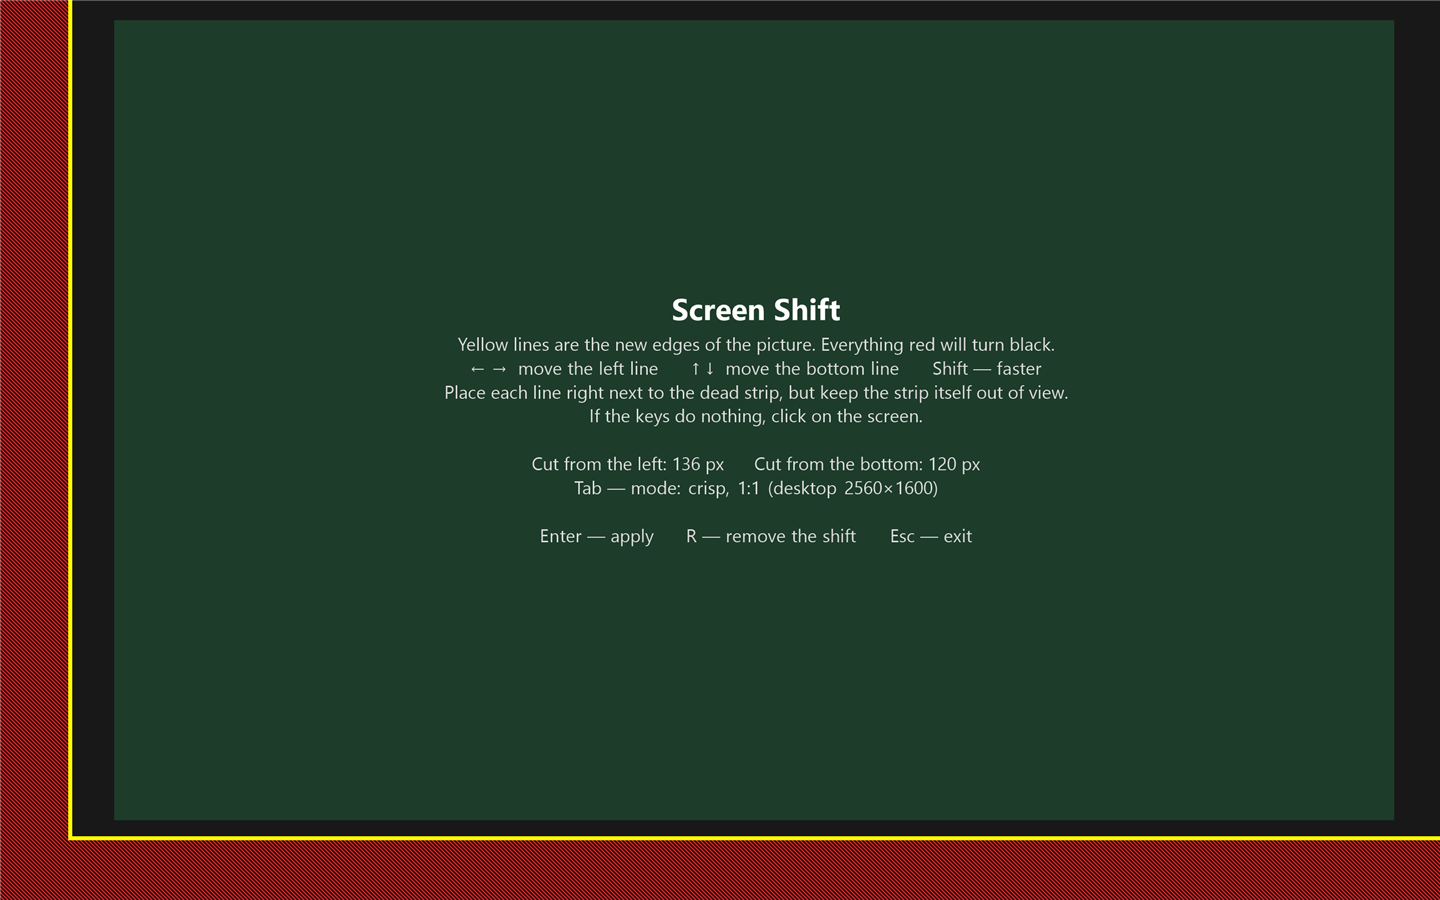
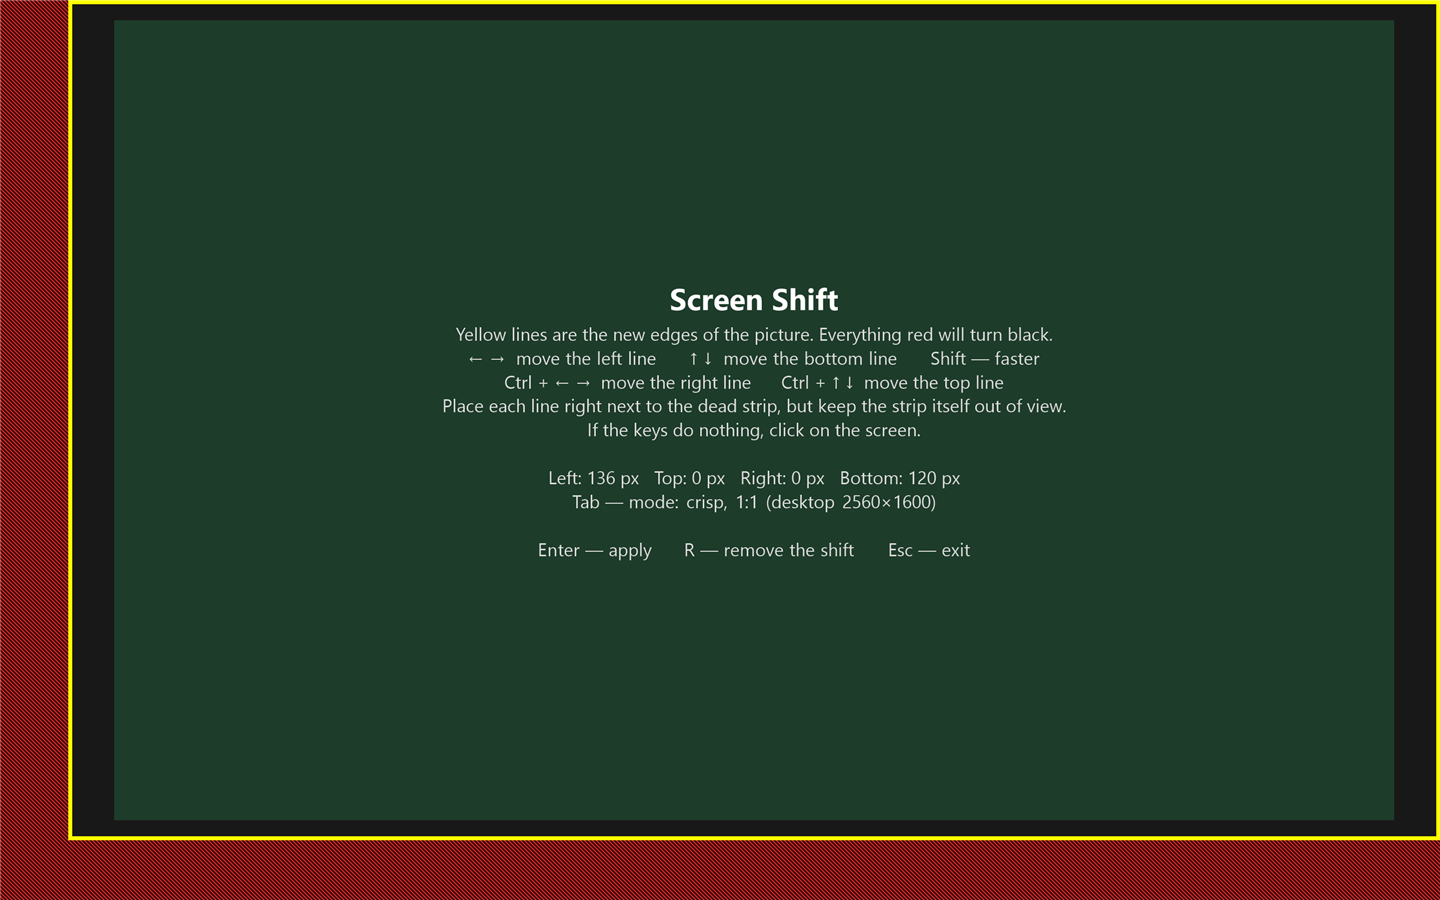
Four edges: tidy up after #1
- Drop the stray BOM from ScreenShift.cs.
- Drop the Alt 1 px step: with Ctrl it made Ctrl+Alt+arrow, which Intel
  drivers use to rotate the screen. Steps are 4 px and 20 px with Shift,
  as before; the test presses Ctrl+Shift instead.
- Calibration hints keep the 1.1 wording, plus one line for Ctrl.
- READMEs: the four-edge keys and settings format go into the existing
  sections, in English and Russian; the test command sits next to the
  build command; the appended section is gone.
- Calibration screenshots re-rendered with the new hints.

Changed region(s): [[0.3125, 0.3111, 0.75, 0.6222], [0.0625, 0.0, 1.0, 0.0311]]

diff --git a/ScreenShift.cs b/ScreenShift.cs
@@ -1,4 +1,4 @@
-// Required Notice: Copyright (c) 2026 Bluremind (https://github.com/Bluremind/ScreenShift)
+// Required Notice: Copyright (c) 2026 Bluremind (https://github.com/Bluremind/ScreenShift)
 // Free for personal use under the ScreenShift Personal Use License (see LICENSE). Any other use needs a paid license (COMMERCIAL.md).
 //
 // ScreenShift: moves the Windows picture off the dead strips of a damaged panel.
@@ -269,16 +269,16 @@ namespace ScreenShift
                 : string.Format(L.T("вся картинка, сжата до {0:0.#}%", "fill, scaled to {0:0.#}%"), 100.0 * region.Width / w);
             string body = L.Russian
                 ? "Жёлтые линии — новые края картинки. Всё красное станет чёрным.\n" +
-                  "← →: левая; ↑ ↓: нижняя; Ctrl + ← →: правая; Ctrl + ↑ ↓: верхняя\n" +
-                  "Шаг: 4 px; Shift: 20 px; Alt: 1 px\n" +
+                  "← →  двигать левую линию      ↑ ↓  двигать нижнюю      Shift — быстрее\n" +
+                  "Ctrl + ← →  двигать правую линию      Ctrl + ↑ ↓  двигать верхнюю\n" +
                   "Подведите каждую линию вплотную к чёрной полосе, но так, чтобы её ещё было видно.\n" +
                   "Если клавиши не действуют — щёлкните по экрану.\n\n" +
                   string.Format("Слева: {0} px   Сверху: {1} px   Справа: {2} px   Снизу: {3} px\n", cutLeft, cutTop, cutRight, cutBottom) +
                   "Tab — режим: " + mode + "\n\n" +
                   "Enter — применить      R — убрать сдвиг      Esc — выйти"
                 : "Yellow lines are the new edges of the picture. Everything red will turn black.\n" +
-                  "← →: left edge; ↑ ↓: bottom edge; Ctrl + ← →: right edge; Ctrl + ↑ ↓: top edge\n" +
-                  "Step: 4 px; Shift: 20 px; Alt: 1 px\n" +
+                  "← →  move the left line      ↑ ↓  move the bottom line      Shift — faster\n" +
+                  "Ctrl + ← →  move the right line      Ctrl + ↑ ↓  move the top line\n" +
                   "Place each line right next to the dead strip, but keep the strip itself out of view.\n" +
                   "If the keys do nothing, click on the screen.\n\n" +
                   string.Format("Left: {0} px   Top: {1} px   Right: {2} px   Bottom: {3} px\n", cutLeft, cutTop, cutRight, cutBottom) +
@@ -302,7 +302,7 @@ namespace ScreenShift
 
         protected override bool ProcessCmdKey(ref Message msg, Keys keyData)
         {
-            int step = (keyData & Keys.Alt) != 0 ? 1 : (keyData & Keys.Shift) != 0 ? 20 : 4;
+            int step = (keyData & Keys.Shift) != 0 ? 20 : 4;
             int maxX = Math.Max(0, panel.Width - Math.Min(640, panel.Width));
             int maxY = Math.Max(0, panel.Height - Math.Min(360, panel.Height));
             bool opposite = (keyData & Keys.Control) != 0;

diff --git a/README.md b/README.md
@@ -43,7 +43,7 @@ ScreenShift asks Windows' display stack to draw the desktop inside a smaller rec
 
 1. Download **`ScreenShift.exe`** from the [latest release](https://github.com/Bluremind/ScreenShift/releases/latest).
 2. Run it. A calibration screen opens.
-3. Use the arrow keys to move the **yellow lines** next to the dead strips. Hold **Shift** to move faster.
+3. Use the arrow keys to move the **yellow lines** next to the dead strips. The arrows move the left and bottom lines, with **Ctrl** held they move the right and top ones. Hold **Shift** to move faster.
 4. Press **Tab** to choose *Crisp* or *Fill*, then **Enter** to apply.
 5. Press **Keep** within 20 seconds. Done.
 
@@ -64,7 +64,7 @@ ScreenShift asks Windows' display stack to draw the desktop inside a smaller rec
 | `ScreenShift.exe --reset` | Remove the shift and delete the saved settings. |
 | `--lang=en` or `--lang=ru` | Add to any command to choose the interface language. |
 
-Settings are stored in `%LOCALAPPDATA%\ScreenShift\settings.txt` as five values: left, top, right, bottom (pixels), and the mode (`fill` or `crisp`). Original three-value settings (left, bottom, mode) are still accepted, with top and right set to zero.
+Settings are stored in `%LOCALAPPDATA%\ScreenShift\settings.txt` as five values: pixels cut on the left, top, right and bottom, and the mode (`crisp` or `fill`). Settings saved by version 1.1 and older (left, bottom, mode) still work.
 
 ### Re-apply after every boot
 
@@ -117,11 +117,17 @@ English and Russian. ScreenShift picks Russian when Windows is set to Russian an
 
 ScreenShift changes display settings, so you should be able to check what you run.
 
-- The whole program is one file: [`ScreenShift.cs`](ScreenShift.cs), about 450 lines. It makes no network calls and writes only `settings.txt`.
+- The whole program is one file: [`ScreenShift.cs`](ScreenShift.cs), about 550 lines. It makes no network calls and writes only `settings.txt`.
 - Build it yourself in seconds with the C# compiler that ships with Windows, no SDK needed:
 
   ```powershell
   powershell -NoProfile -ExecutionPolicy Bypass -File .\build.ps1
+  ```
+
+- The geometry and key checks run against the built exe and never touch your display settings:
+
+  ```powershell
+  powershell -NoProfile -ExecutionPolicy Bypass -File .\tests\four-edges.ps1
   ```
 
 - The release page lists the **SHA-256** of the published exe.
@@ -151,40 +157,3 @@ The source code is public so you can read and verify it, but this is not an open
 If ScreenShift saved your laptop, a ⭐ helps other people find it.
 
 </div>
-
-## Four-edge calibration (local modification)
-
-All four edges can be adjusted independently. The usable area is rectangular;
-Fill preserves the panel aspect ratio and may leave additional black margins.
-Crisp centers the largest fitting standard resolution inside the selected area.
-
-| Keys | Action |
-| --- | --- |
-| Left / Right | Move the left boundary |
-| Up / Down | Move the bottom boundary |
-| Ctrl + Left / Right | Move the right boundary |
-| Ctrl + Up / Down | Move the top boundary |
-| Shift + movement | Move 20 pixels instead of 4 |
-| Alt + movement | Move 1 pixel |
-| Tab | Toggle Crisp / Fill |
-| Enter | Apply, then confirm Keep within 20 seconds |
-| R / Esc | Reset / cancel |
-
-Boundaries move in the direction of the arrow. Calibration retains at least
-640 x 360 pixels (or the whole panel dimension if smaller) for the instructions.
-There is no longer a one-third-of-panel limit on each edge.
-New installations start with zero cuts. The example settings `100 50 200 150 fill`
-exclude 100 pixels left, 50 top, 200 right, and 150 bottom. Editing the settings
-file alone does not change the display; open calibration to preview and confirm.
-The older screenshots above show the original two-edge UI.
-
-Build and run the geometry/UI checks from the project directory:
-
-```powershell
-powershell -NoProfile -ExecutionPolicy Bypass -File .\build.ps1
-powershell -NoProfile -ExecutionPolicy Bypass -File .\tests\four-edges.ps1
-.\dist\ScreenShift.exe
-```
-
-The checks do not apply display configurations. Actual GPU acceptance and the
-confirmation/revert flow must be checked interactively on the target display.
